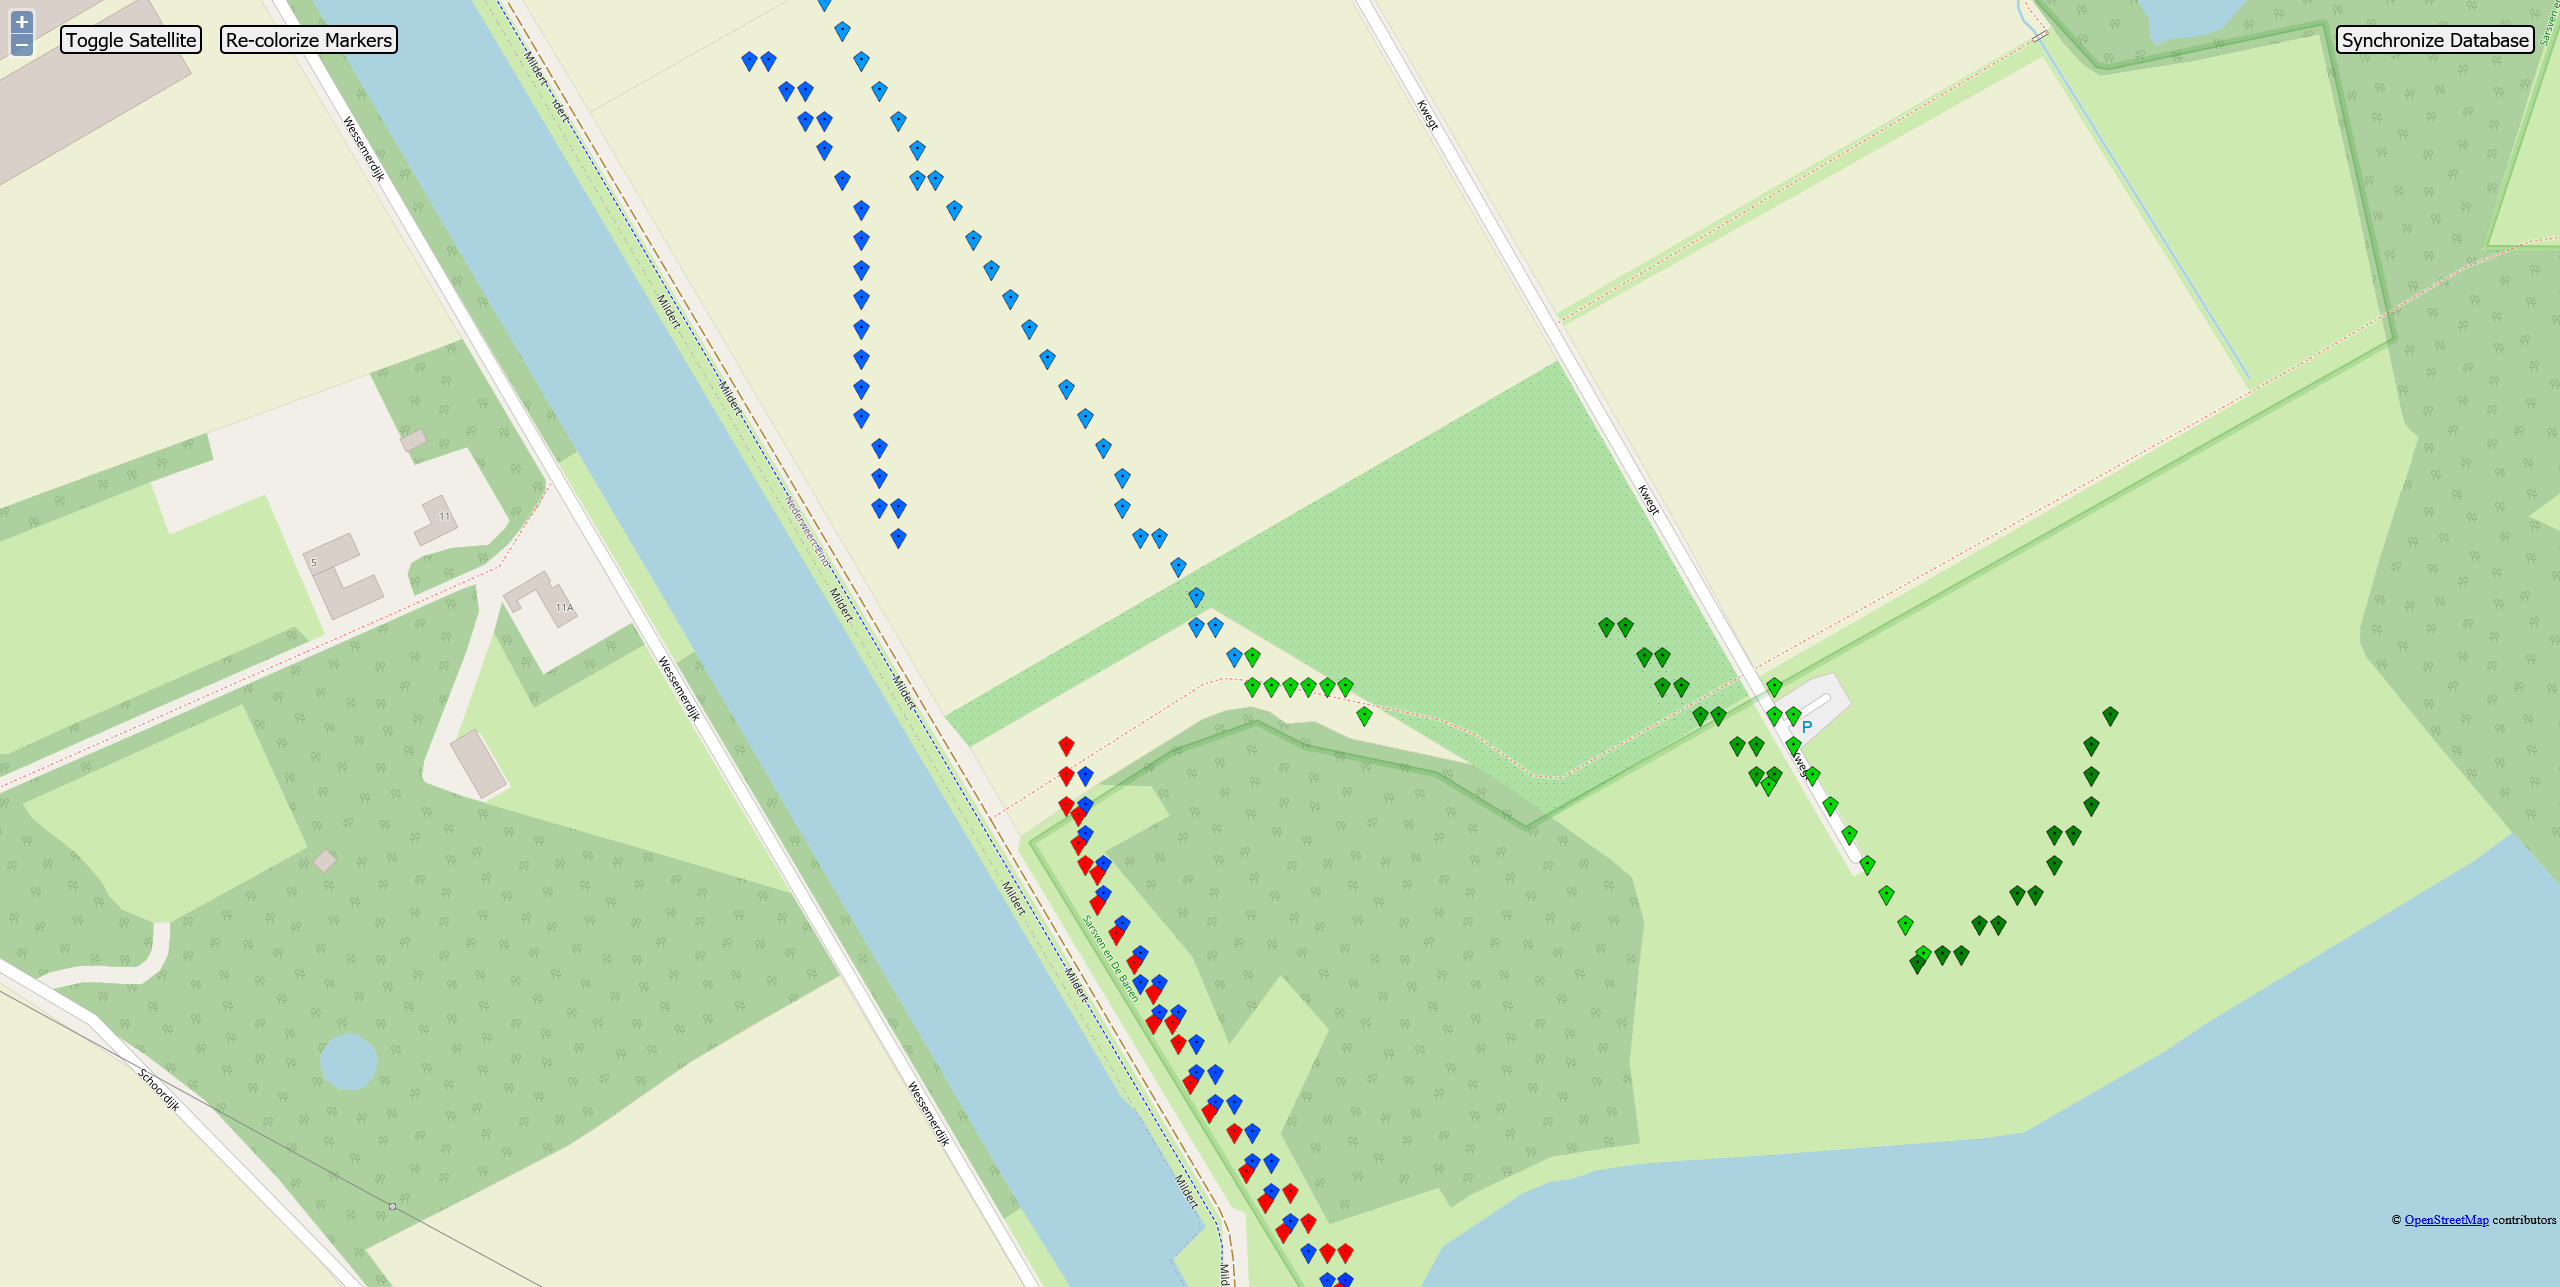
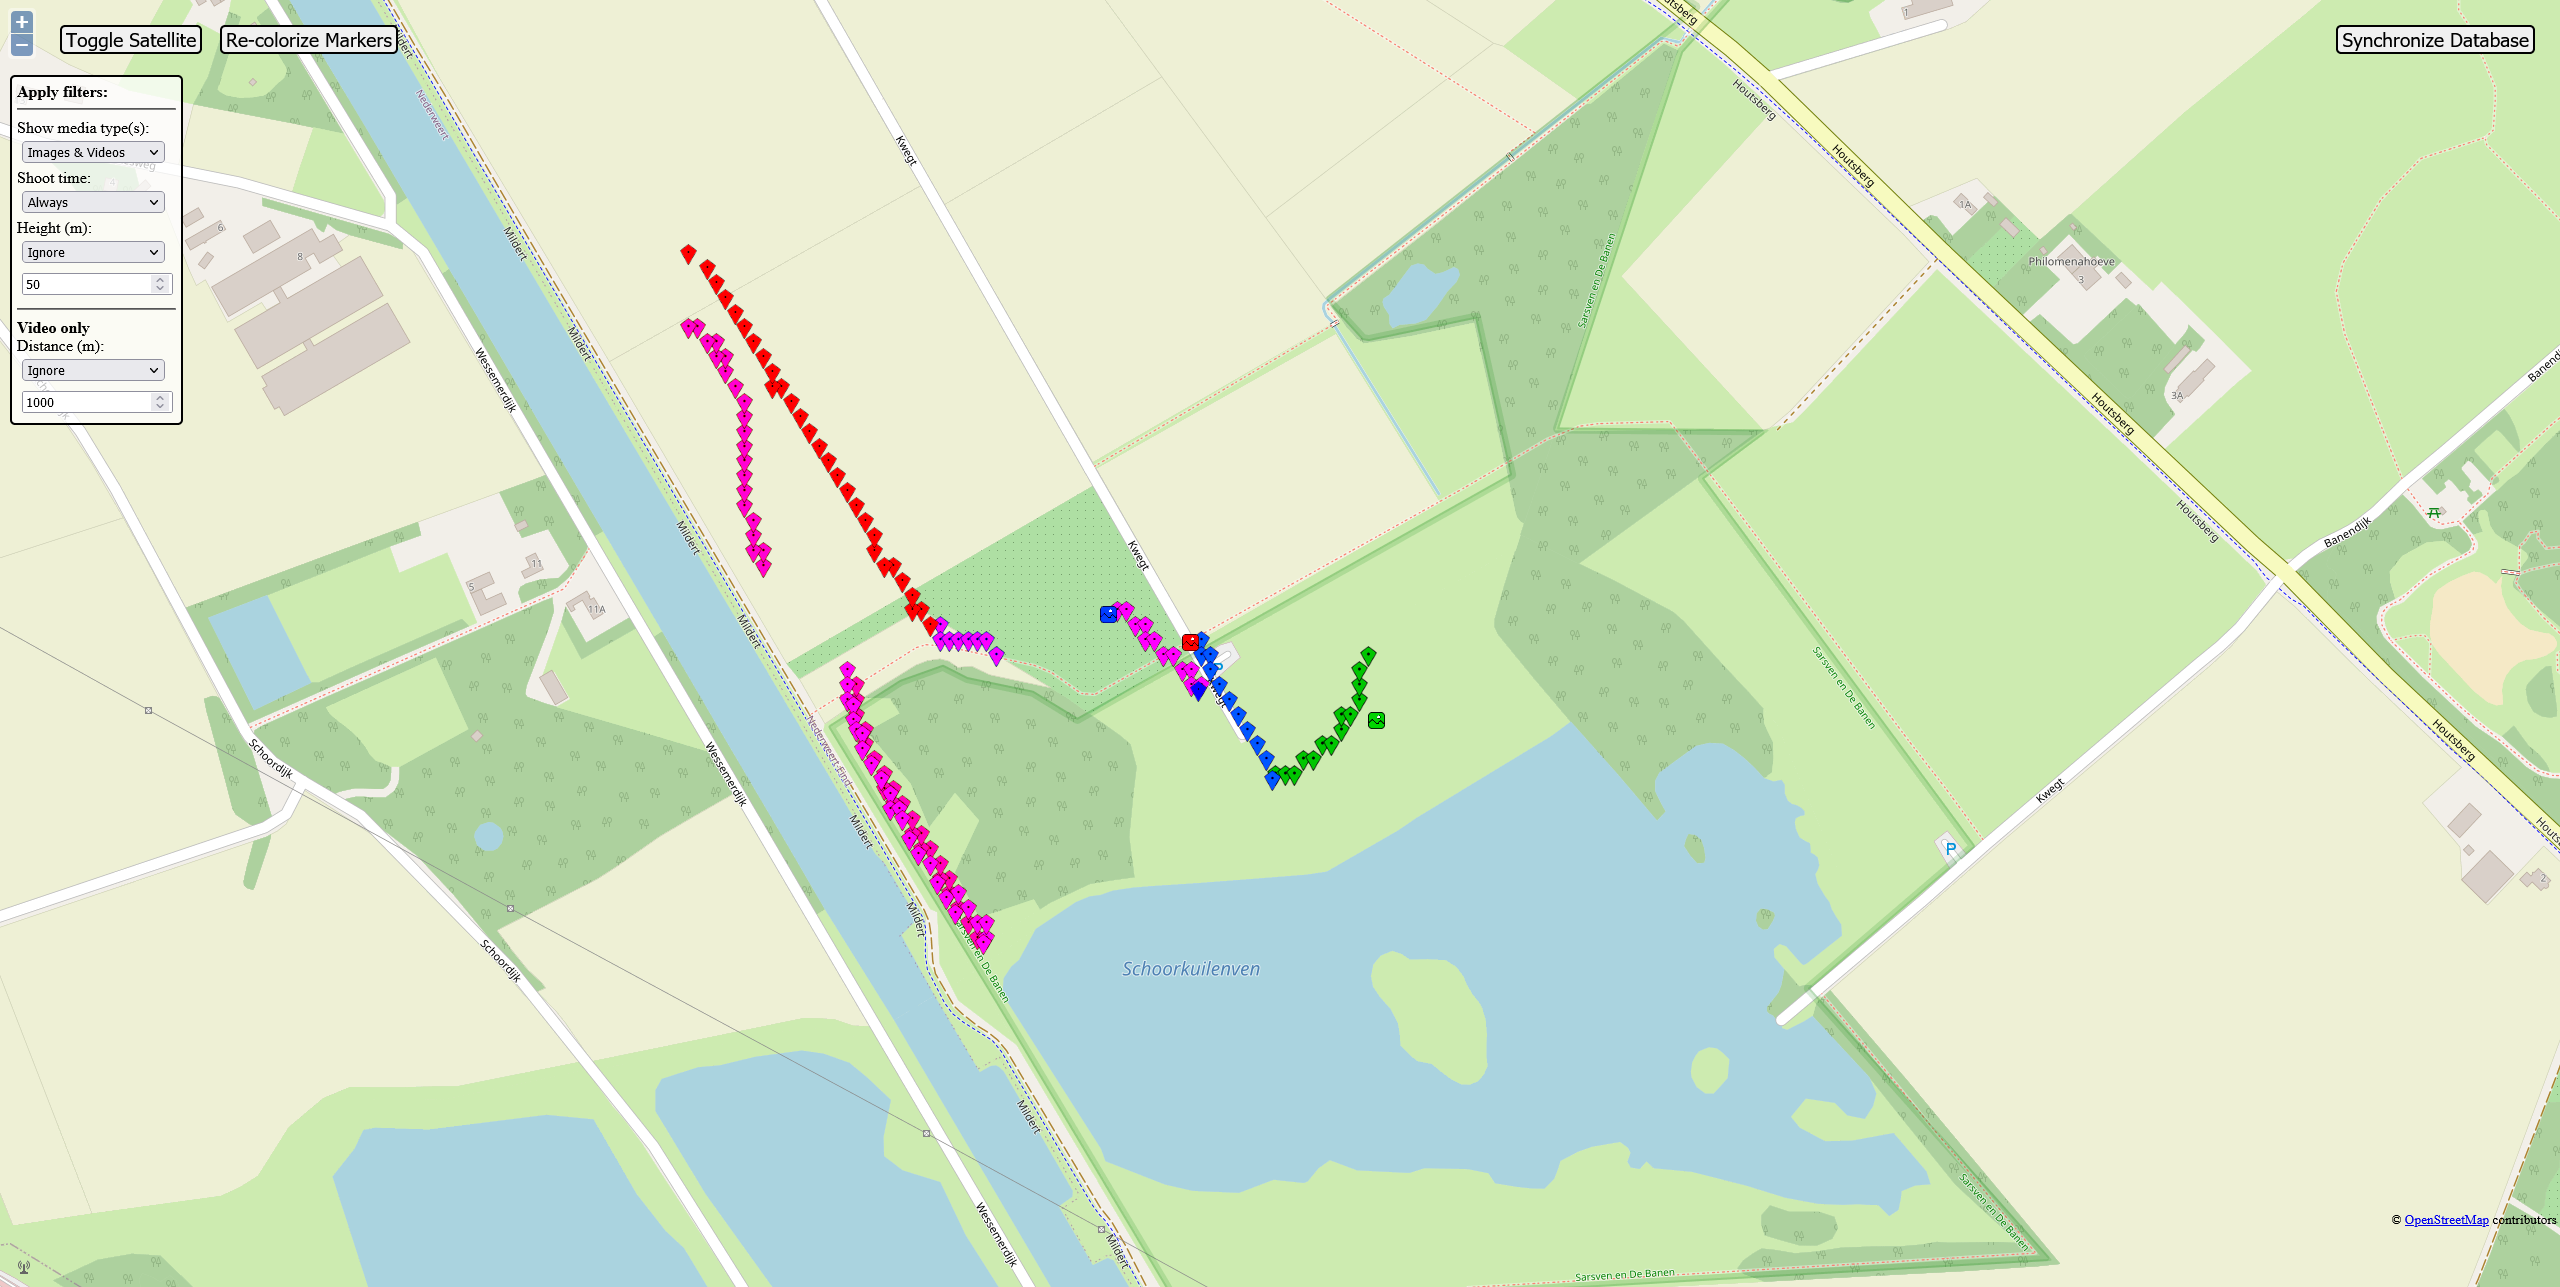
readme update

diff --git a/frontend/index.html b/frontend/index.html
@@ -17,7 +17,7 @@
     <option value="videos">Videos</option>
   </select>
   <br>
-  Time: <br>
+  Shoot time: <br>
   <select id="timeSelect" onchange="filterChanged()" class="filterInput">
     <option value="always" selected="selected">Always</option>
     <option value="day">Last 24 hours</option>

diff --git a/README.md b/README.md
@@ -3,9 +3,6 @@ A web-based application to explore your DJI drone footage on a map. Point the se
 
 ## Screenshots
 
-Example use
-![Example use](readme_assets/example.gif)
-
 Plain map view of data points
 ![Plain map view](readme_assets/map.png)
 
@@ -21,18 +18,21 @@ Watching a video after clicking the thumbnail
 Inspecting an image
 ![Inspecting an image](readme_assets/image.png)
 
+Example use (a bit outdated but the gist is the same)
+![Example use](readme_assets/example.gif)
+
 ## Current features
 
 - Directory scanning
 - Automatic analysis and parsing of scanned files
 - Plotting of footage data points / images onto OSM or Satellite view
+- Filtering plotted footage based on attributes
 - Inspecting data point / image information including camera settings
 - Opening and watching source footage at exact point of the data point in the footage
 
 ## Potential future features (high to low priority)
 
 - Improved layout on data point / image inspection pages
-- Filtering markers on the map based on data point attributes
 - Improve marker visibility through coloring and positioning (mainly in high density areas)
 - Transcoded streaming, raw footage streaming is less than ideal for non-network streaming
 - Authentication for exposing service to internet
